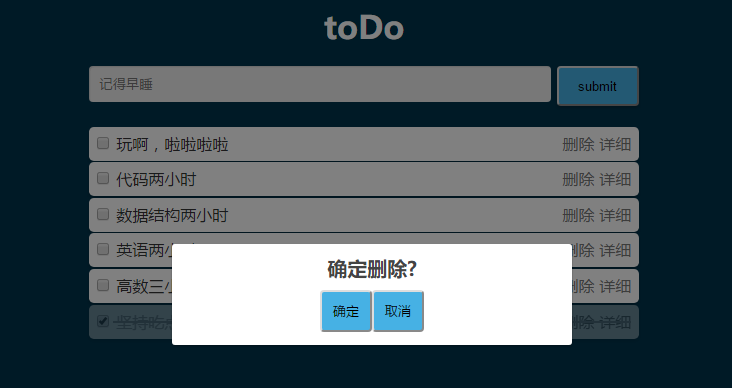
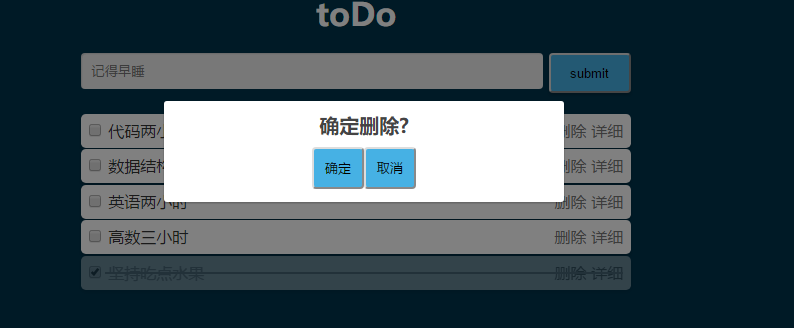
美化弹窗高度

diff --git a/js/base.js b/js/base.js
@@ -146,7 +146,7 @@
             ,   move_y
             ;
             move_x = (window_width - box_width) / 2;
-            move_y = ((window_height - box_height) / 2) - 20;
+            move_y = ((window_height - box_height) / 2) - 150;
 
             $box.css({
                 left:move_x,
